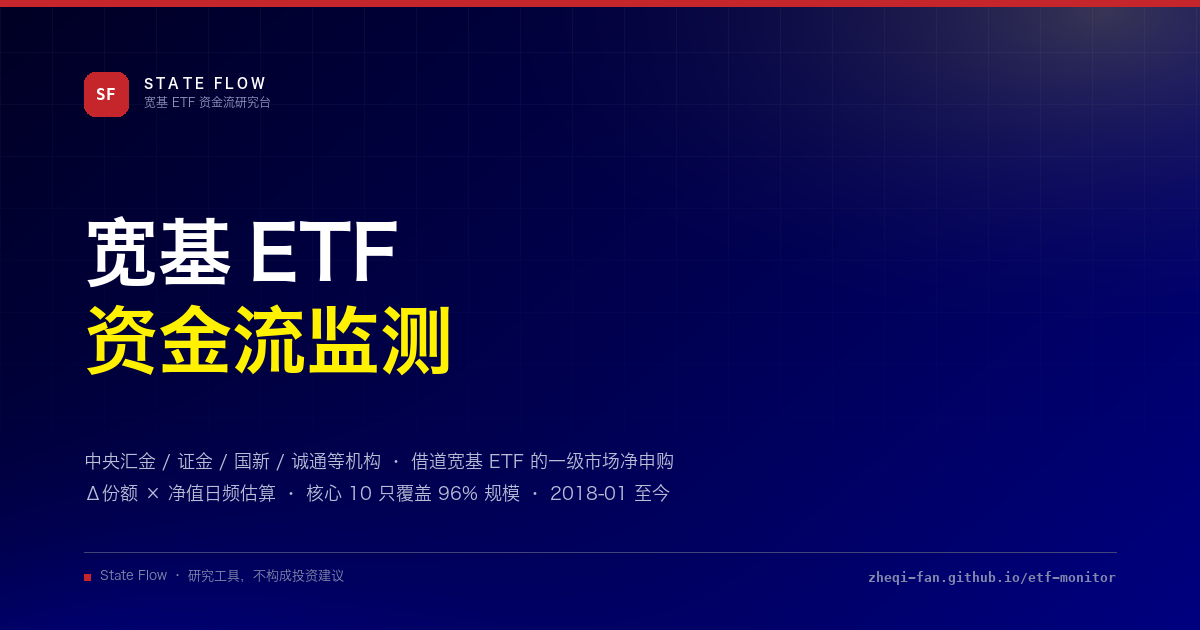
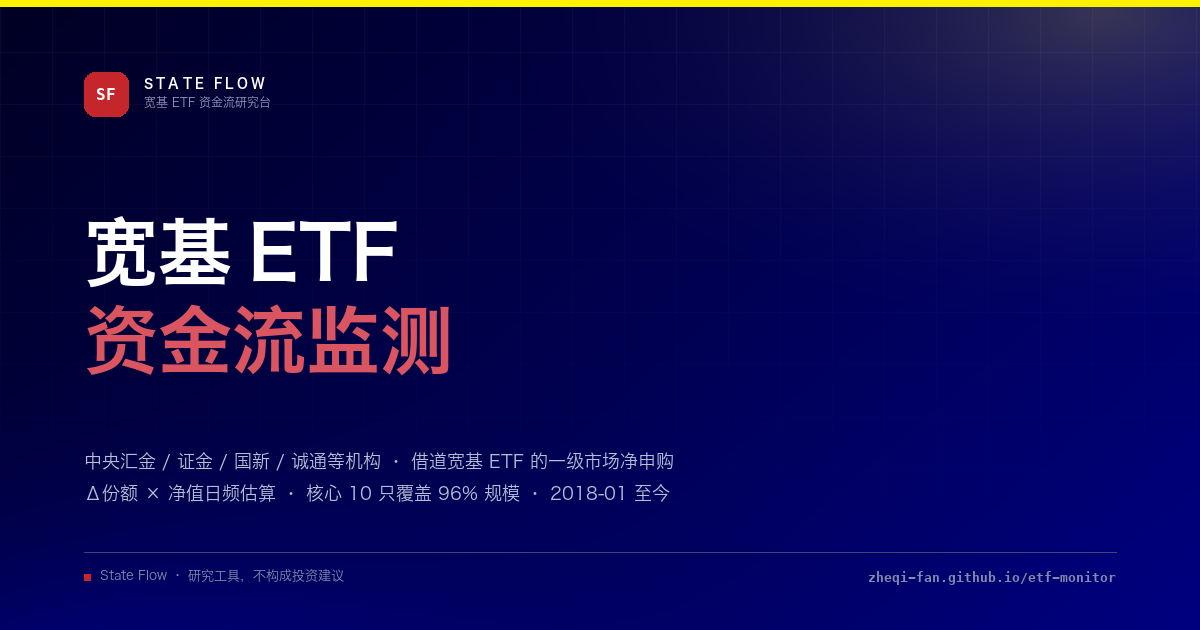
style: 顶部品牌线改 CLSA 黄，H1「资金流监测」改红
按反馈做颜色互换：
- 页面顶部 3px 品牌线：中信红 → CLSA 强调黄 #fff100（深蓝底上 16:1，非常醒目）
- H1 第二行「资金流监测」：黄 → 品牌红

H1 用 --red-2 (#db5560) 而非 --red (#c4262c)：深蓝渐变最亮处 #000070 上，
#c4262c 只有 2.97，差一点跌破大字号 3:1 门槛且偏闷；提亮到 #db5560 后
最亮处 4.44、最暗处 5.23，仍是同一色相的红，在深色底上更清晰。

同步更新 assets/preview.png（黄顶线 + 红标题），保持分享卡与页面一致。

Changed region(s): [[0.0617, 0.4825, 0.4008, 0.6032], [0.0, 0.0, 1.0, 0.0302]]

diff --git a/assets/style.css b/assets/style.css
@@ -49,7 +49,7 @@ a{color:inherit;text-decoration:none}
 
 /* ---------- hero ---------- */
 .hero{
-  position:relative;overflow:hidden;color:#e9ecf5;box-shadow:inset 0 3px 0 var(--red);
+  position:relative;overflow:hidden;color:#e9ecf5;box-shadow:inset 0 3px 0 var(--yellow);
   background:
     radial-gradient(900px 420px at 84% -8%,rgba(255,241,0,.13),transparent 62%),
     radial-gradient(760px 420px at 8% 118%,rgba(2,2,181,.42),transparent 62%),
@@ -85,7 +85,7 @@ a{color:inherit;text-decoration:none}
 h1{
   margin:0;font-size:56px;line-height:1.04;font-weight:800;letter-spacing:-.02em;color:#fff;
 }
-h1 em{font-style:normal;color:#fff100}
+h1 em{font-style:normal;color:var(--red-2)}
 .lede{color:rgba(234,240,246,.62);max-width:560px;margin:18px 0 0;font-size:13.5px;line-height:1.8}
 .lede b{color:#fff;font-weight:600}
 .signal-card{

diff --git a/tools/make_preview.py b/tools/make_preview.py
@@ -81,7 +81,7 @@ def main():
     base = Image.fromarray(background().astype(np.uint8), "RGB")
     grid(base, alpha=0.04)
     d = ImageDraw.Draw(base)
-    d.rectangle([0, 0, W, 6], fill=RED)
+    d.rectangle([0, 0, W, 6], fill=YELLOW)
 
     # 品牌行
     mark = (84, 72, 84 + 44, 72 + 44)
@@ -97,7 +97,7 @@ def main():
     f_h1 = font(F_BOLD, 74)
     d.text((84, 214), "宽基", font=f_h1, fill=WHITE)
     d.text((84 + d.textlength("宽基", font=f_h1) + 16, 214), "ETF", font=f_h1, fill=WHITE)
-    d.text((84, 302), "资金流监测", font=f_h1, fill=YELLOW)
+    d.text((84, 302), "资金流监测", font=f_h1, fill=(0xDB, 0x55, 0x60))
 
     # 导语
     lede = (185, 190, 214)
